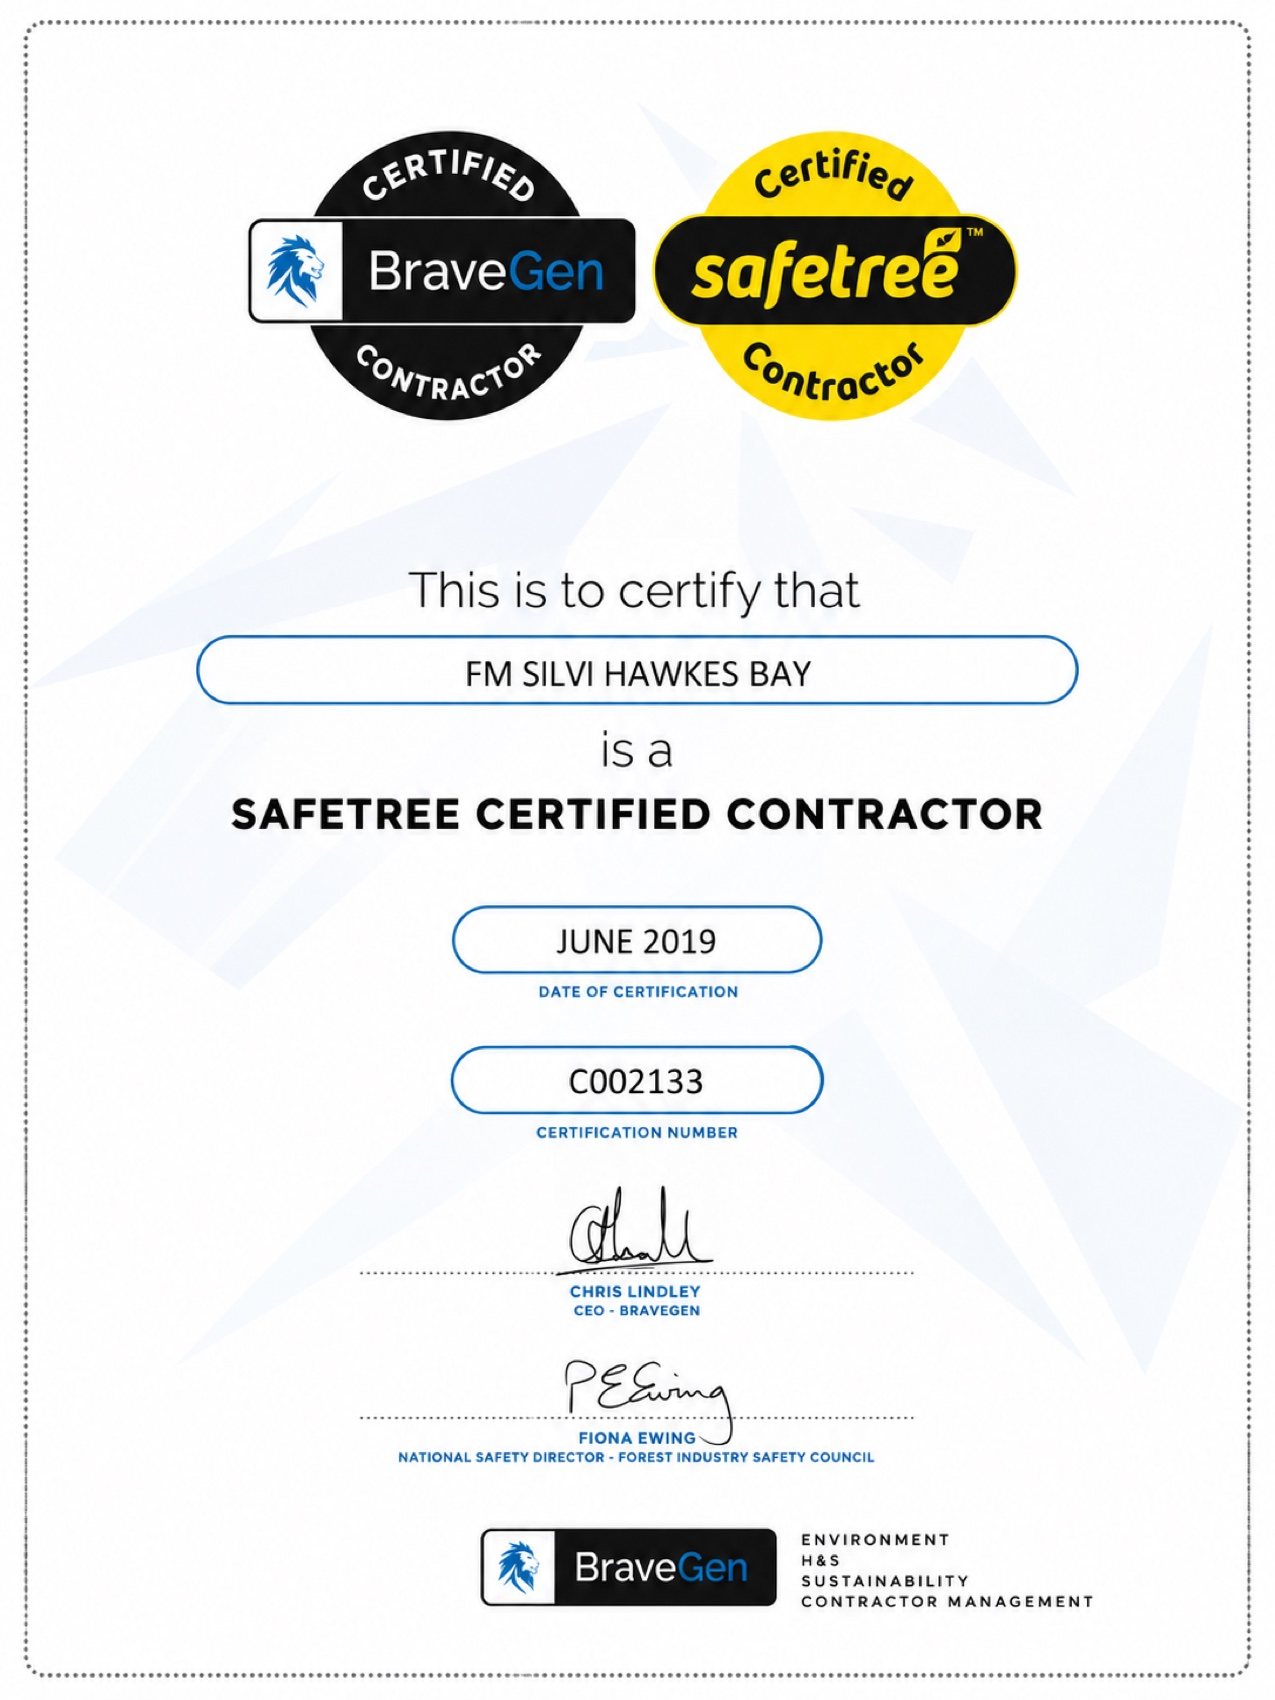
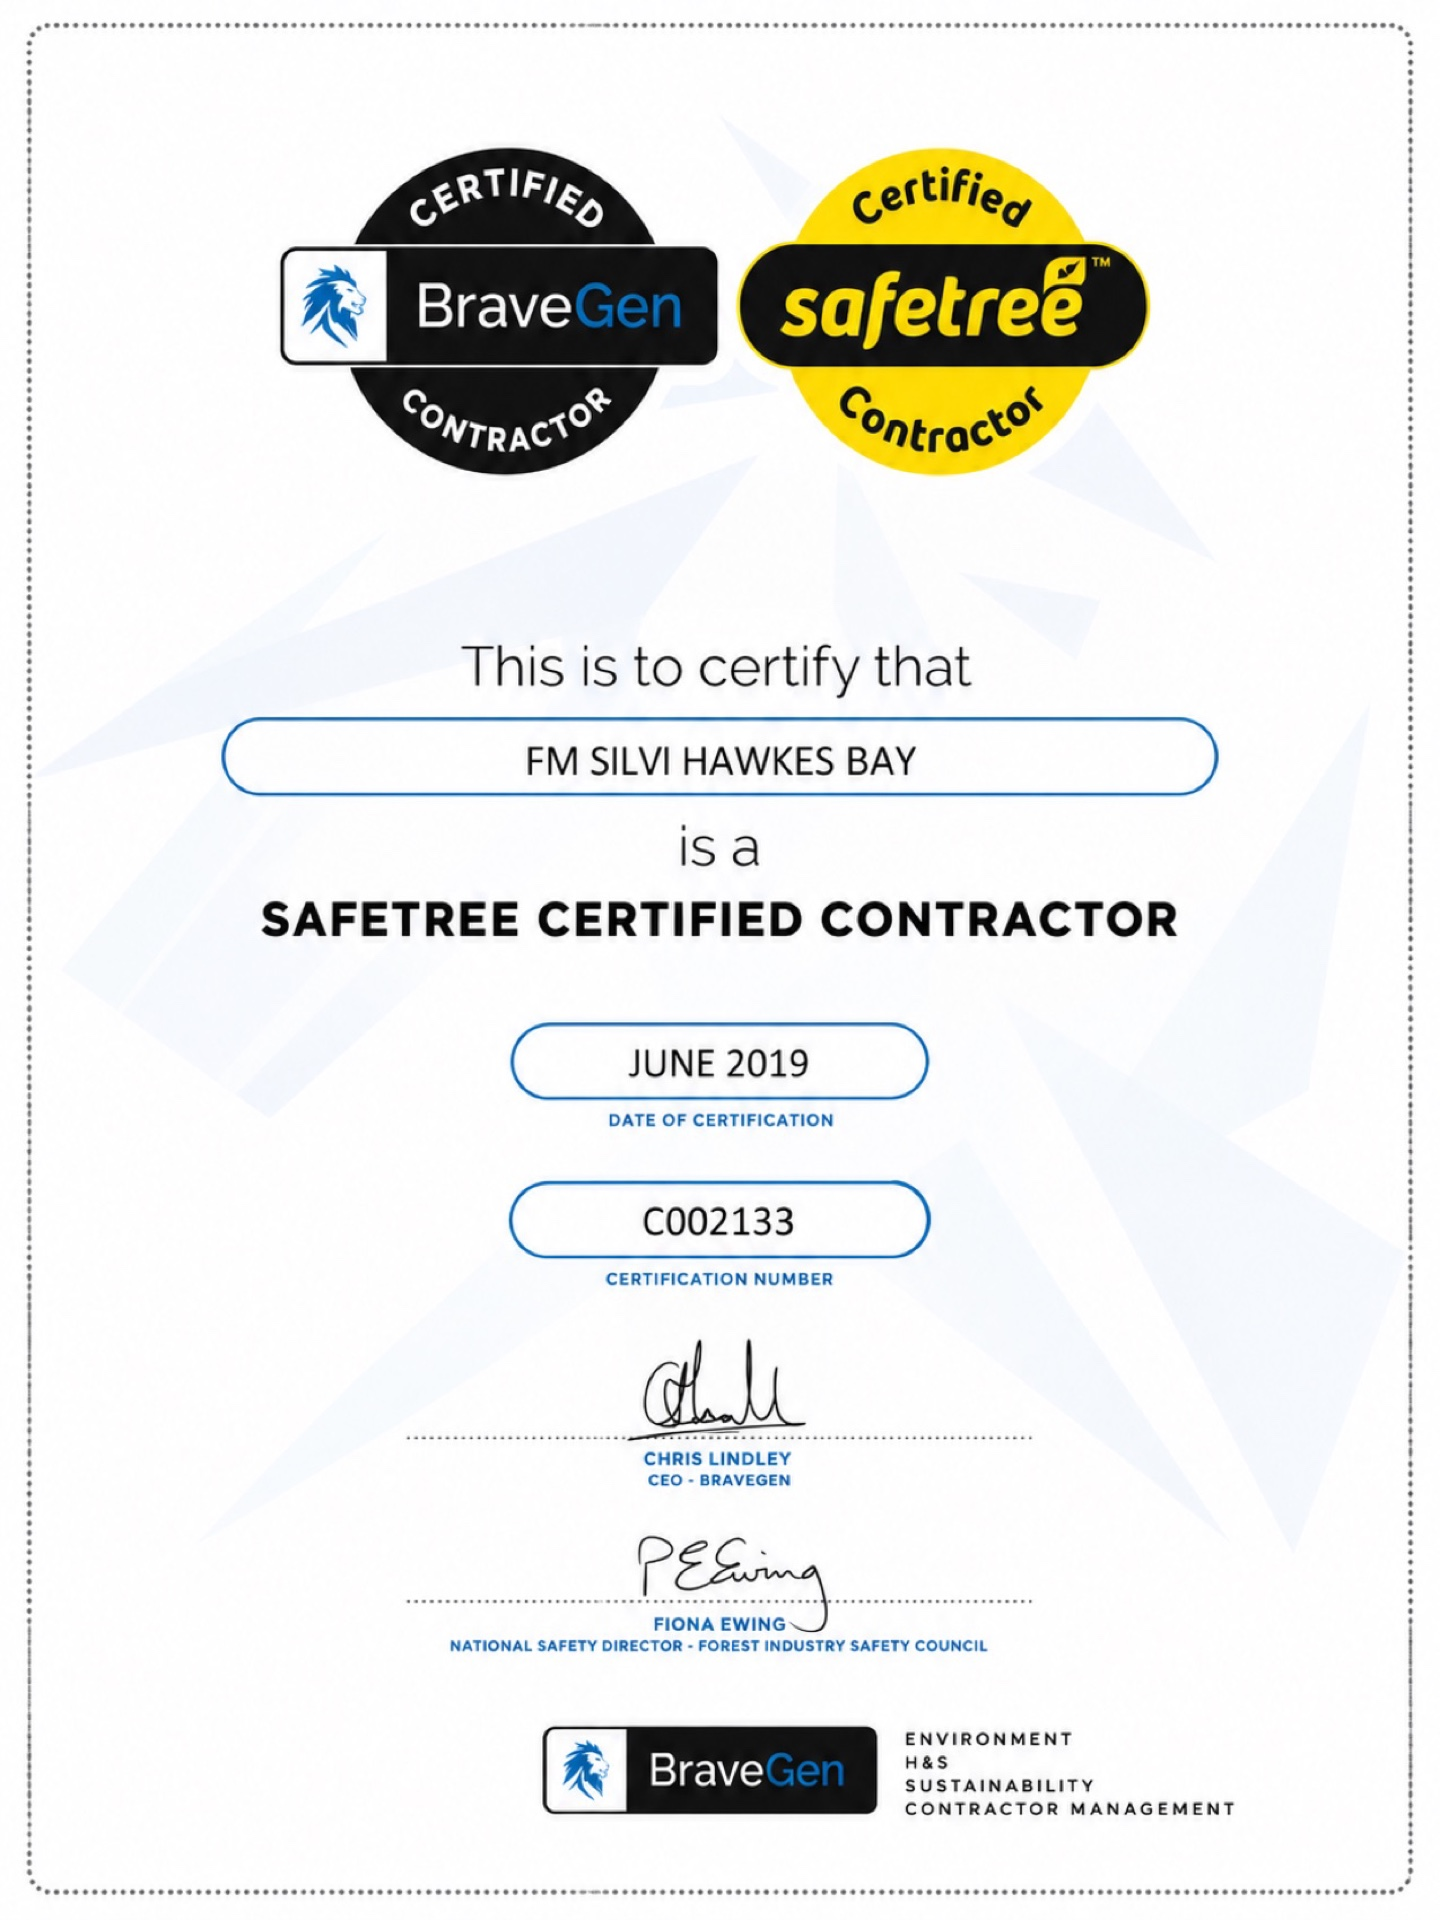
Resize certificate scans to 1920px so the HD image check passes
Plain resize (about 1.13x), not AI upscaling, so the certificate text stays faithful.

Changed region(s): [[0.6424, 0.9041, 0.6729, 0.9353], [0.4588, 0.7171, 0.4894, 0.7482]]

diff --git a/index.html b/index.html
@@ -547,7 +547,7 @@ footer{background:var(--ink);border-top:1px solid var(--line-inv);padding:56px 0
     </div>
   </section>
 
-<section id="credentials"><div class="wrap"><div class="sec-head"><h2>Awards &amp; certification</h2><p>Recognition for safety in Hawke’s Bay forestry.</p></div><div class="credentials-grid"><article><a href="img/safety-award-2019.jpg" target="_blank" rel="noopener"><img src="img/safety-award-2019.jpg" alt="2019 Health and Safety Silviculture Excellence Award, Hawkes Bay Region, presented to FM Silviculture Hawkes Bay" width="1700" height="1201" loading="lazy" decoding="async"></a><h3>2019 Health and Safety Silviculture Excellence Award</h3><p>Presented to FM Silviculture Hawkes Bay by Rayonier Matariki Forests for its contribution to safety in the Hawkes Bay region.</p></article><article><a href="img/safetree-certificate.jpg" target="_blank" rel="noopener"><img src="img/safetree-certificate.jpg" alt="Safetree Certified Contractor certificate for FM Silvi Hawkes Bay, dated June 2019, number C002133" width="1275" height="1700" loading="lazy" decoding="async"></a><h3>Safetree contractor certification</h3><p>FM Silvi Hawkes Bay’s Safetree Certified Contractor certificate, dated June 2019.</p><p>Certification number: <strong>C002133</strong></p></article></div></div></section>
+<section id="credentials"><div class="wrap"><div class="sec-head"><h2>Awards &amp; certification</h2><p>Recognition for safety in Hawke’s Bay forestry.</p></div><div class="credentials-grid"><article><a href="img/safety-award-2019.jpg" target="_blank" rel="noopener"><img src="img/safety-award-2019.jpg" alt="2019 Health and Safety Silviculture Excellence Award, Hawkes Bay Region, presented to FM Silviculture Hawkes Bay" width="1920" height="1356" loading="lazy" decoding="async"></a><h3>2019 Health and Safety Silviculture Excellence Award</h3><p>Presented to FM Silviculture Hawkes Bay by Rayonier Matariki Forests for its contribution to safety in the Hawkes Bay region.</p></article><article><a href="img/safetree-certificate.jpg" target="_blank" rel="noopener"><img src="img/safetree-certificate.jpg" alt="Safetree Certified Contractor certificate for FM Silvi Hawkes Bay, dated June 2019, number C002133" width="1440" height="1920" loading="lazy" decoding="async"></a><h3>Safetree contractor certification</h3><p>FM Silvi Hawkes Bay’s Safetree Certified Contractor certificate, dated June 2019.</p><p>Certification number: <strong>C002133</strong></p></article></div></div></section>
   <!-- CREW -->
   <section id="crew" class="dark"><div class="wrap"><div class="sec-head"><h2>Our crew in the field</h2><p>The crew behind the work, on the block and off it.</p></div><div class="field-gallery" id="fieldGallery"><figure class="field-landscape"><img src="img/life-meal.jpg" alt="The FM Silvi crew sharing a meal together" width="1920" height="1440" loading="lazy" decoding="async"></figure><figure class="field-landscape"><img src="img/life-handover.jpg" alt="Gear being handed over to a crew member on a block" width="1920" height="1080" loading="lazy" decoding="async"></figure><figure class="field-landscape"><img src="img/life-training.jpg" alt="FM Silvi at a forestry training session" width="1920" height="1440" loading="lazy" decoding="async"></figure><figure class="field-landscape"><img src="img/life-ute.jpg" alt="An FM Silvi crew member in the back of the ute" width="1920" height="1440" loading="lazy" decoding="async"></figure><figure class="field-portrait"><img src="img/life-planter.jpg" alt="An FM Silvi planter with spade and planting bag" width="1440" height="1920" loading="lazy" decoding="async"></figure><figure class="field-portrait"><img src="img/life-truck.jpg" alt="FM Silvi crew in the truck heading out to a block" width="1471" height="1920" loading="lazy" decoding="async"></figure><figure class="field-portrait"><img src="img/life-pointing.jpg" alt="An FM Silvi crew member directing work on a block" width="1440" height="1920" loading="lazy" decoding="async"></figure><figure class="field-portrait"><img src="img/life-dinner.jpg" alt="The FM Silvi crew out for dinner together" width="1080" height="1920" loading="lazy" decoding="async"></figure><figure class="field-landscape"><img src="img/field-07.jpg" alt="The full crew on a hilltop block" width="1920" height="1281" loading="lazy" decoding="async"></figure><figure class="field-landscape"><img src="img/field-01.jpg" alt="The FM Silvi crew lined up in hi-vis on a block" width="1920" height="1200" loading="lazy" decoding="async"></figure><figure class="field-landscape"><img src="img/field-11.jpg" alt="View from the helicopter over the forest" width="1920" height="1440" loading="lazy" decoding="async"></figure><figure class="field-landscape"><img src="img/field-20.jpg" alt="Planting through slash on a cut-over block" width="1920" height="1440" loading="lazy" decoding="async"></figure><figure class="field-portrait field-more"><img src="img/field-03.jpg" alt="Pruner working high in a pine tree" width="1440" height="1920" loading="lazy" decoding="async"></figure><figure class="field-portrait field-more"><img src="img/field-05.jpg" alt="Smoko break on the forest floor" width="1440" height="1920" loading="lazy" decoding="async"></figure><figure class="field-portrait field-more"><img src="img/field-06.jpg" alt="Drone flying over a cut-over block" width="1440" height="1920" loading="lazy" decoding="async"></figure><figure class="field-portrait field-more"><img src="img/field-09.jpg" alt="Crew member working among young pines" width="1440" height="1920" loading="lazy" decoding="async"></figure><figure class="field-portrait field-more"><img src="img/field-10.jpg" alt="Thinning with a chainsaw among the pines" width="1080" height="1920" loading="lazy" decoding="async"></figure><figure class="field-portrait field-more"><img src="img/field-12.jpg" alt="Taking a break on a planting block" width="1440" height="1920" loading="lazy" decoding="async"></figure><figure class="field-portrait field-more"><img src="img/field-13.jpg" alt="Crew and a digger on a forestry site" width="1440" height="1920" loading="lazy" decoding="async"></figure><figure class="field-portrait field-more"><img src="img/field-14.jpg" alt="Crew member resting on a stump" width="1440" height="1920" loading="lazy" decoding="async"></figure><figure class="field-portrait field-more"><img src="img/field-15.jpg" alt="Climbing to prune a tall pine" width="1440" height="1920" loading="lazy" decoding="async"></figure><figure class="field-portrait field-more"><img src="img/field-16.jpg" alt="Carrying seedling boxes up a steep slope" width="1440" height="1920" loading="lazy" decoding="async"></figure><figure class="field-portrait field-more"><img src="img/field-17.jpg" alt="Crew and gear on a hilltop" width="1080" height="1920" loading="lazy" decoding="async"></figure><figure class="field-portrait field-more"><img src="img/field-18.jpg" alt="Chainsaw operator on a felled log" width="1440" height="1920" loading="lazy" decoding="async"></figure><figure class="field-landscape field-more"><img src="img/field-02.jpg" alt="Crew member at a helicopter landing site" width="1920" height="1440" loading="lazy" decoding="async"></figure><figure class="field-landscape field-more"><img src="img/field-04.jpg" alt="Crew downtime together after work" width="1920" height="1440" loading="lazy" decoding="async"></figure><figure class="field-landscape field-more"><img src="img/field-08.jpg" alt="Crew ready to start at first light" width="1920" height="1440" loading="lazy" decoding="async"></figure><figure class="field-landscape field-more field-top"><img src="img/field-21.jpg" alt="Releasing young pines among old stumps" width="1440" height="1920" loading="lazy" decoding="async"></figure><figure class="field-wide field-more"><img src="img/field-19.jpg" alt="Planting on an open grassy hill" width="1920" height="1440" loading="lazy" decoding="async"></figure></div><div class="field-more-wrap"><button type="button" class="field-more-btn" id="fieldMoreBtn" aria-expanded="false" aria-controls="fieldGallery">See all 29 photos</button></div></div></section>
 
